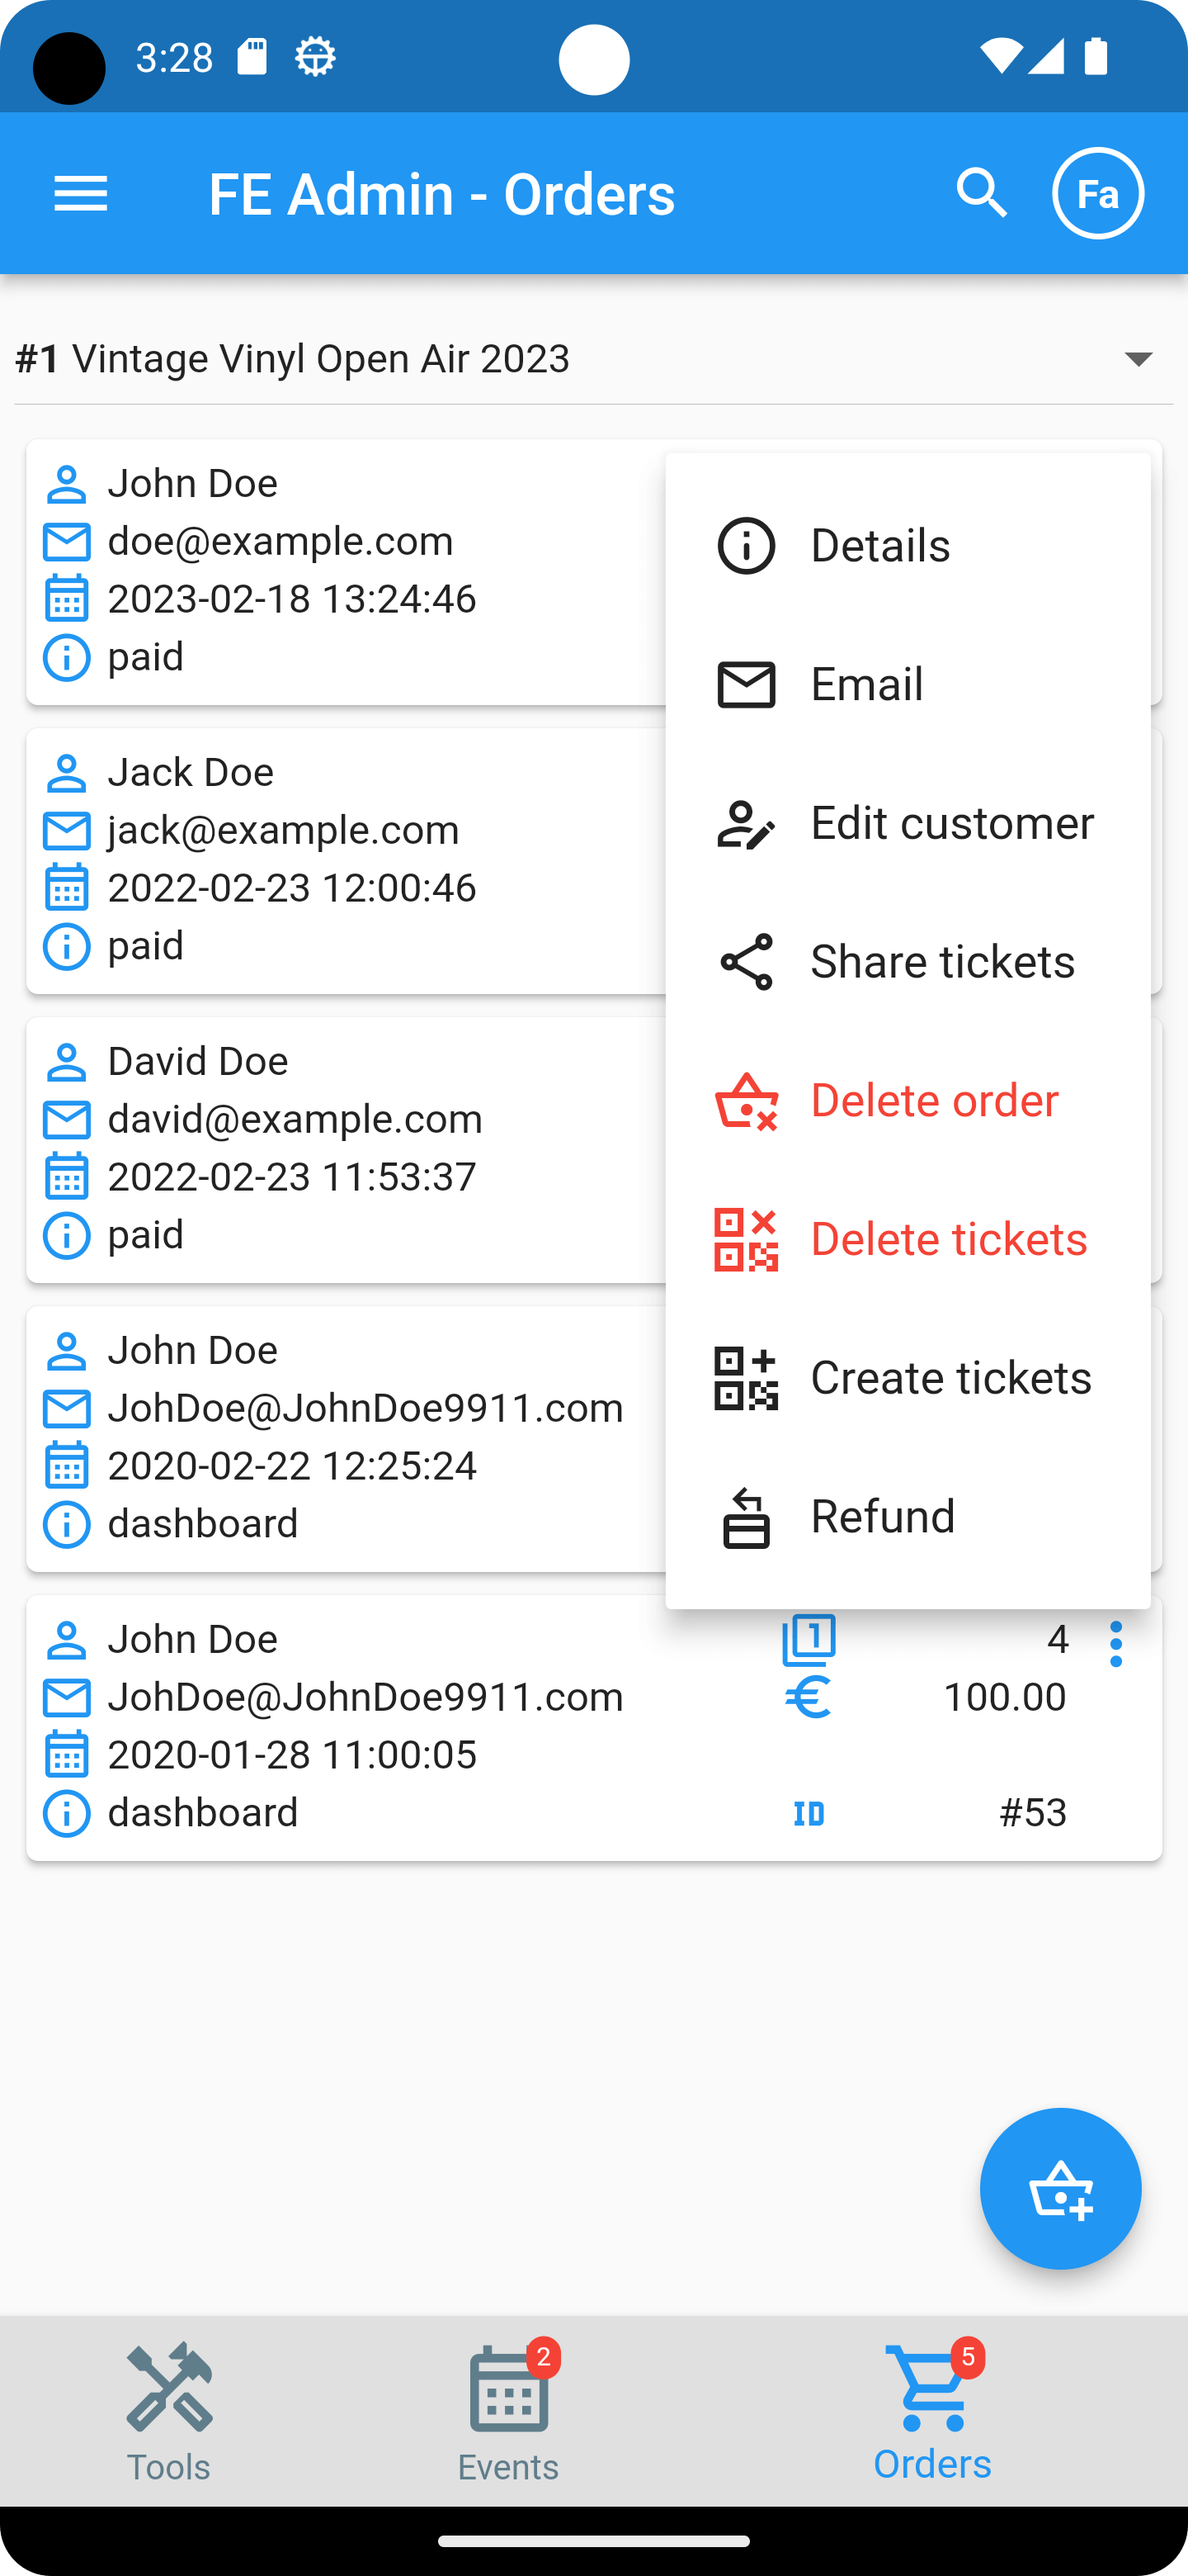
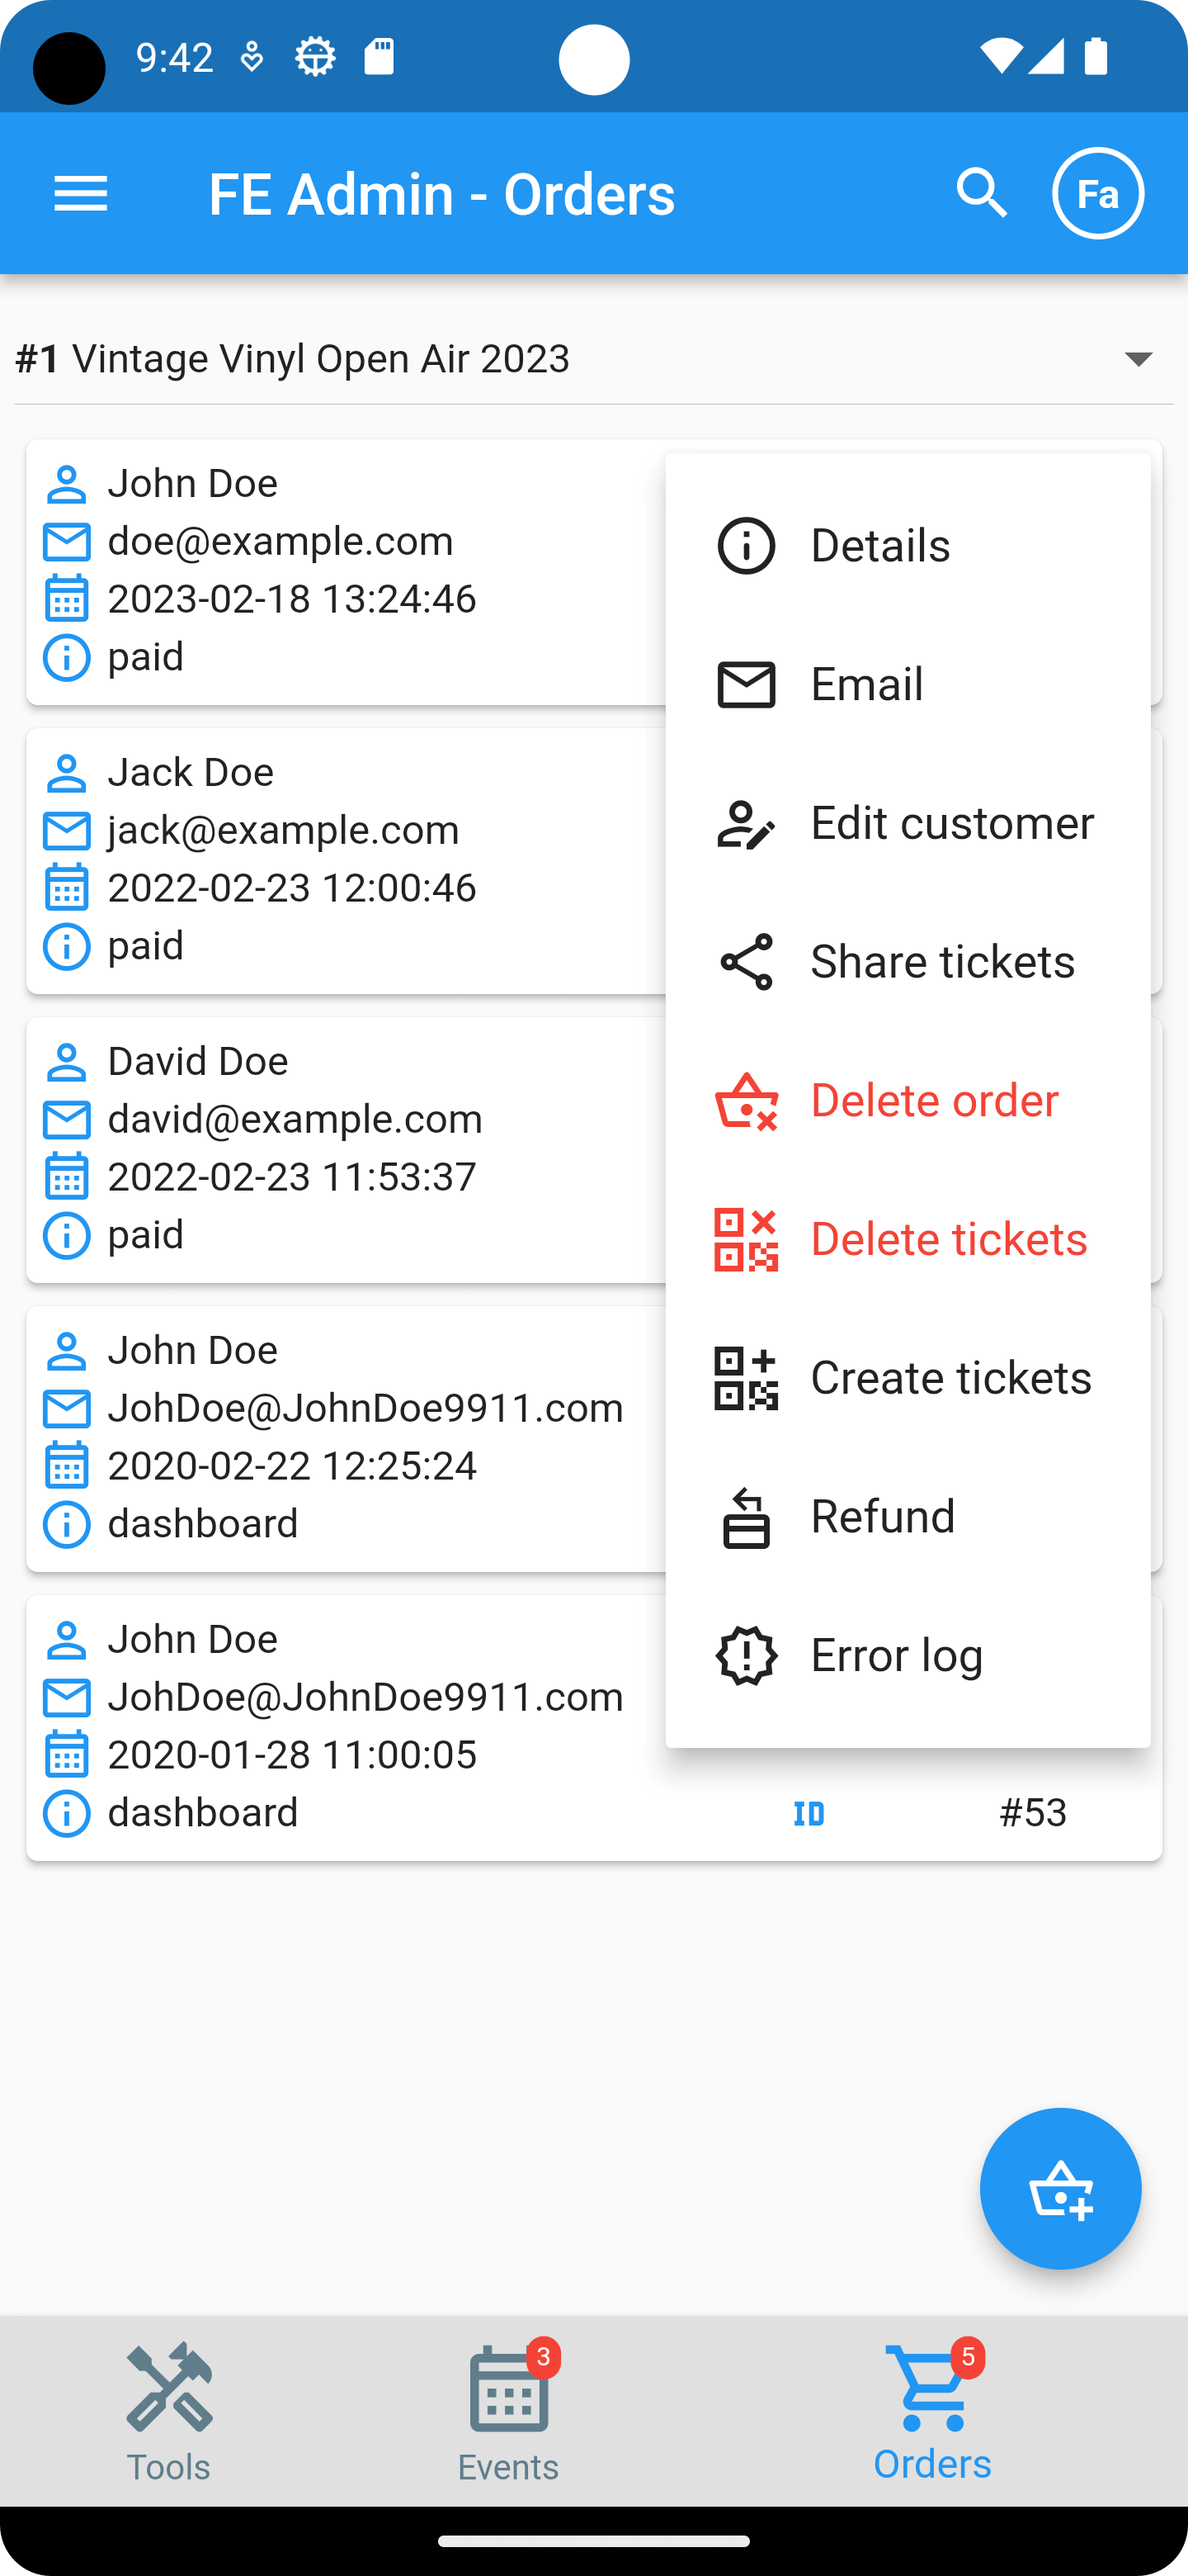
Added webhooks documentation

Changed region(s): [[0.5625, 0.6218, 0.9688, 0.7151], [0.125, 0.0, 0.2188, 0.0311], [0.3125, 0.0, 0.3438, 0.0311]]

diff --git a/docs/getting-started/settings.rst b/docs/getting-started/settings.rst
@@ -133,6 +133,13 @@ The default value is ``2,4,8,16,32,64,128``, which means the first retry is sche
 You can define your own scheme.
 
 Consult you SMTP or API provider how it handles hard-bounces and soft-bounces. Usually they provide webhooks to process these bounces.
+
+Email webhooks
+^^^^^^^^^^^^^^
+Enable this if you want include error notification events (bounces, spam reports, ...) from the email-provider, in the errorlog.
+Potential error-events are visible in in the ``Error log`` context menu of the orders tab in the ``FE Admin`` app.
+In the tools section of the ``FE Admin`` App all error-events are visible.
+For the moment webhooks are only supported for ``Postmark``, ``Mailgun``, ``Mailjet`` and ``Sendgrid``. See below for the details.
      
 SMTP settings
 ^^^^^^^^^^^^^
@@ -170,6 +177,12 @@ If you create a new sending domain, make sure you create it in the ``EU`` space 
 If you don’t host your domain in the European union (USA flag in dashboard), you have to strip the ``eu`` part from the URL.
 This of course will also works, but it adds some latency to the API request. The ‘mg‘ part depends on your DNS settings.
 
+It is possible to log Mailgun '*Spam complaints*', '*Permanent failures*', '*Temporary failures*' and '*Unsubscribe*' events in the log-table of *Fast Events*.
+You can configure this in the webhooks section of the Mailgun dashboard.
+For the moment other events are discarded.
+Use this as URL ``https://user:password@fillinyourdomain.com/wp-json/fast-events/v1/email/webhook/mailgun``.
+Use a valid WordPress user and an application password in the url and remove the spaces from the application password.
+
 Mailjet API settings
 ^^^^^^^^^^^^^^^^^^^^
 The settings can be found in the `Mailjet dashboard <https://www.mailjet.com/>`_. The URL for the server is:
@@ -180,6 +193,12 @@ The settings can be found in the `Mailjet dashboard <https://www.mailjet.com/>`_
    
 The :guilabel:`Mailjet API key` is the combination of the user identifier and API key, separated by a colon. For example ``7a8e12:1234a1``
 
+It is possible to log Mailjet '*Bounce*', '*Spam*' and '*Blocked*' events in the log-table of *Fast Events*.
+You can configure this in the webhooks section of the Mailjet dashboard. For the moment other events are discarded.
+Use this as URL ``https://user:password@fillinyourdomain.com/wp-json/fast-events/v1/email/webhook/mailjet``.
+Use a valid WordPress user and an application password in the url and remove the spaces from the application password.
+Do not group webhooks. So uncheck these in the Mailjet webhooks dashboard.
+
 Postmark API settings
 ^^^^^^^^^^^^^^^^^^^^^
 The settings can be found in the `Postmark dashboard <https://postmarkapp.com/>`_. The URL for the server is:
@@ -188,9 +207,11 @@ The settings can be found in the `Postmark dashboard <https://postmarkapp.com/>`
 
    https://api.postmarkapp.com/email
 
-It is possible to log Postmark *Bounce* and *Spam complaint* events in the log-table of *Fast Events*. You can configure this in the webhooks section of the Postmark dashboard.
+It is possible to log Postmark '*Bounce*', '*Spam complaint*', '*Subscription change*' and '*Manual suppression*' events in the log-table of *Fast Events*.
+You can configure this in the webhooks section of the Postmark dashboard. For the moment other events are discarded.
 Use this as URL ``https://fillinyourdomain.com/wp-json/fast-events/v1/email/webhook/postmark``. Furthermore: make sure you enable
 Basic authentication and use a valid WordPress user and an application password.
+Do **not** include the message content in the webhook!
    
 Sendgrid API settings
 ^^^^^^^^^^^^^^^^^^^^^
@@ -198,7 +219,12 @@ The settings can be found in the `Sendgrid dashboard <https://sendgrid.com/>`_. 
 
 .. code-block:: html
 
-   https://api.sendgrid.com/v2/mail/send
+   https://api.sendgrid.com/v3/mail/send
+
+It is possible to log Sendgrid '*Deferred*', '*Bounce*', '*Dropped*', '*Spam report*', '*Unsubscribe*' and '*Group unsubscribe*' events in the log-table of *Fast Events*.
+You can configure this in the webhooks section of the Sendgrid dashboard. For the moment other events are discarded.
+Use this as URL ``https://user:password@fillinyourdomain.com/wp-json/fast-events/v1/email/webhook/sendgrid``.
+Use a valid WordPress user and an application password in the url and remove the spaces from the application password.
    
 Sendinblue API settings
 ^^^^^^^^^^^^^^^^^^^^^^^

diff --git a/docs/apps/admin.rst b/docs/apps/admin.rst
@@ -1,7 +1,7 @@
 FE Admin App
 ============
-With the FE Admin app, you can quickly view details of events and orders on your mobile phone and change various
-components of events and/or orders, if you are authorised to do so.
+With the FE Admin app, you can quickly view details of events and orders and change various
+components of events and/or orders, if you are authorised to do so. The App
 
 Full list of capabilities
 -------------------------
@@ -32,6 +32,7 @@ Orders
 #. Delete tickets (:guilabel:`tickets_delete`).
 #. Create tickets (:guilabel:`tickets_create`).
 #. Refund and order (:guilabel:`order_refund`).
+#. Error log (:guilabel:`log_read` and :guilabel:`log_delete` for deleting an entry).
 #. Add new orders (:guilabel:`order_add`).
 
 Tools
@@ -45,7 +46,9 @@ Tools
 #. Export orders to Excel format (:guilabel:`order_export`).
 #. Export tickets to Excel format (:guilabel:`tickets_export`).
 
-The App is available for Android 9.0 and above and IOS 13 and above.
+Download
+--------
+The App is available for Android 9.0 and above and IOS 13 (available soon) and above.
 
 .. image:: ../_static/images/apps/Admin-Android.png
    :target: https://play.google.com/store/apps/details?id=nl.fe_data.admin

diff --git a/docs/getting-started/changelog.rst b/docs/getting-started/changelog.rst
@@ -1,9 +1,13 @@
 Changelog
 =========
 
+v1.9.1 (19 Apr 2023)
+--------------------
+* New: Email event webhooks for Sendgrid, Mailgun and Mailjet.
+
 v1.9.0 (13 Apr 2023)
 --------------------
-* New: Bounce webhook for Postmark.
+* New: Email event webhooks for Postmark.
 
 v1.8.4 (1 Apr 2023)
 -------------------
